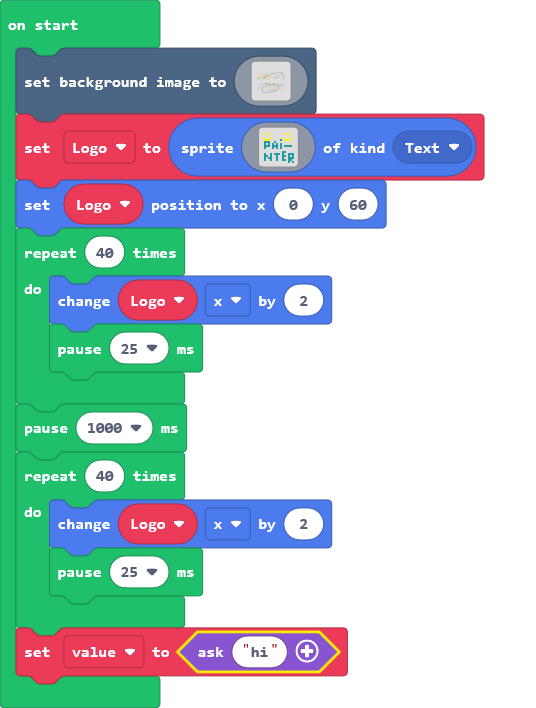
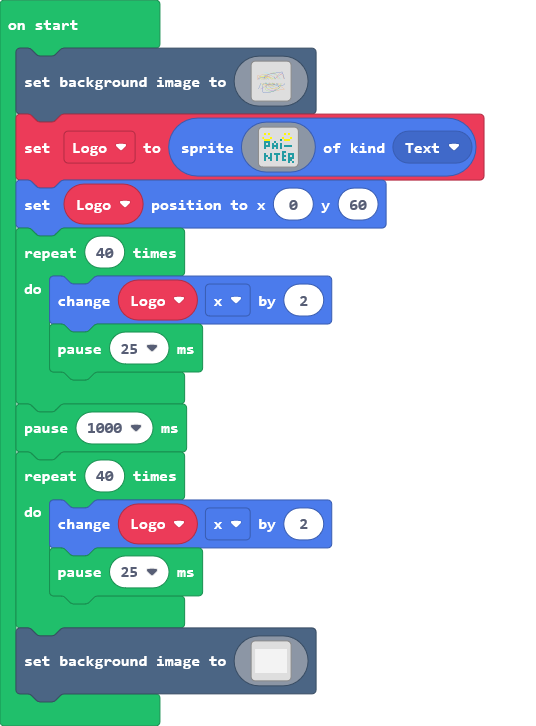
Update main.blocks, main.ts

diff --git a/main.ts b/main.ts
@@ -151,4 +151,125 @@ for (let index = 0; index < 40; index++) {
     Logo.x += 2
     pause(25)
 }
-let value = game.ask("hi")
+scene.setBackgroundImage(img`
+    1 1 1 1 1 1 1 1 1 1 1 1 1 1 1 1 1 1 1 1 1 1 1 1 1 1 1 1 1 1 1 1 1 1 1 1 1 1 1 1 1 1 1 1 1 1 1 1 1 1 1 1 1 1 1 1 1 1 1 1 1 1 1 1 1 1 1 1 1 1 1 1 1 1 1 1 1 1 1 1 1 1 1 1 1 1 1 1 1 1 1 1 1 1 1 1 1 1 1 1 1 1 1 1 1 1 1 1 1 1 1 1 1 1 1 1 1 1 1 1 1 1 1 1 1 1 1 1 1 1 1 1 1 1 1 1 1 1 1 1 1 1 1 1 1 1 1 1 1 1 1 1 1 1 1 1 1 1 1 1 
+    1 1 1 1 1 1 1 1 1 1 1 1 1 1 1 1 1 1 1 1 1 1 1 1 1 1 1 1 1 1 1 1 1 1 1 1 1 1 1 1 1 1 1 1 1 1 1 1 1 1 1 1 1 1 1 1 1 1 1 1 1 1 1 1 1 1 1 1 1 1 1 1 1 1 1 1 1 1 1 1 1 1 1 1 1 1 1 1 1 1 1 1 1 1 1 1 1 1 1 1 1 1 1 1 1 1 1 1 1 1 1 1 1 1 1 1 1 1 1 1 1 1 1 1 1 1 1 1 1 1 1 1 1 1 1 1 1 1 1 1 1 1 1 1 1 1 1 1 1 1 1 1 1 1 1 1 1 1 1 1 
+    1 1 1 1 1 1 1 1 1 1 1 1 1 1 1 1 1 1 1 1 1 1 1 1 1 1 1 1 1 1 1 1 1 1 1 1 1 1 1 1 1 1 1 1 1 1 1 1 1 1 1 1 1 1 1 1 1 1 1 1 1 1 1 1 1 1 1 1 1 1 1 1 1 1 1 1 1 1 1 1 1 1 1 1 1 1 1 1 1 1 1 1 1 1 1 1 1 1 1 1 1 1 1 1 1 1 1 1 1 1 1 1 1 1 1 1 1 1 1 1 1 1 1 1 1 1 1 1 1 1 1 1 1 1 1 1 1 1 1 1 1 1 1 1 1 1 1 1 1 1 1 1 1 1 1 1 1 1 1 1 
+    1 1 1 1 1 1 1 1 1 1 1 1 1 1 1 1 1 1 1 1 1 1 1 1 1 1 1 1 1 1 1 1 1 1 1 1 1 1 1 1 1 1 1 1 1 1 1 1 1 1 1 1 1 1 1 1 1 1 1 1 1 1 1 1 1 1 1 1 1 1 1 1 1 1 1 1 1 1 1 1 1 1 1 1 1 1 1 1 1 1 1 1 1 1 1 1 1 1 1 1 1 1 1 1 1 1 1 1 1 1 1 1 1 1 1 1 1 1 1 1 1 1 1 1 1 1 1 1 1 1 1 1 1 1 1 1 1 1 1 1 1 1 1 1 1 1 1 1 1 1 1 1 1 1 1 1 1 1 1 1 
+    1 1 1 1 1 1 1 1 1 1 1 1 1 1 1 1 1 1 1 1 1 1 1 1 1 1 1 1 1 1 1 1 1 1 1 1 1 1 1 1 1 1 1 1 1 1 1 1 1 1 1 1 1 1 1 1 1 1 1 1 1 1 1 1 1 1 1 1 1 1 1 1 1 1 1 1 1 1 1 1 1 1 1 1 1 1 1 1 1 1 1 1 1 1 1 1 1 1 1 1 1 1 1 1 1 1 1 1 1 1 1 1 1 1 1 1 1 1 1 1 1 1 1 1 1 1 1 1 1 1 1 1 1 1 1 1 1 1 1 1 1 1 1 1 1 1 1 1 1 1 1 1 1 1 1 1 1 1 1 1 
+    1 1 1 1 1 1 1 1 1 1 1 1 1 1 1 1 1 1 1 1 1 1 1 1 1 1 1 1 1 1 1 1 1 1 1 1 1 1 1 1 1 1 1 1 1 1 1 1 1 1 1 1 1 1 1 1 1 1 1 1 1 1 1 1 1 1 1 1 1 1 1 1 1 1 1 1 1 1 1 1 1 1 1 1 1 1 1 1 1 1 1 1 1 1 1 1 1 1 1 1 1 1 1 1 1 1 1 1 1 1 1 1 1 1 1 1 1 1 1 1 1 1 1 1 1 1 1 1 1 1 1 1 1 1 1 1 1 1 1 1 1 1 1 1 1 1 1 1 1 1 1 1 1 1 1 1 1 1 1 1 
+    1 1 1 1 1 1 1 1 1 1 1 1 1 1 1 1 1 1 1 1 1 1 1 1 1 1 1 1 1 1 1 1 1 1 1 1 1 1 1 1 1 1 1 1 1 1 1 1 1 1 1 1 1 1 1 1 1 1 1 1 1 1 1 1 1 1 1 1 1 1 1 1 1 1 1 1 1 1 1 1 1 1 1 1 1 1 1 1 1 1 1 1 1 1 1 1 1 1 1 1 1 1 1 1 1 1 1 1 1 1 1 1 1 1 1 1 1 1 1 1 1 1 1 1 1 1 1 1 1 1 1 1 1 1 1 1 1 1 1 1 1 1 1 1 1 1 1 1 1 1 1 1 1 1 1 1 1 1 1 1 
+    1 1 1 1 1 1 1 1 1 1 1 1 1 1 1 1 1 1 1 1 1 1 1 1 1 1 1 1 1 1 1 1 1 1 1 1 1 1 1 1 1 1 1 1 1 1 1 1 1 1 1 1 1 1 1 1 1 1 1 1 1 1 1 1 1 1 1 1 1 1 1 1 1 1 1 1 1 1 1 1 1 1 1 1 1 1 1 1 1 1 1 1 1 1 1 1 1 1 1 1 1 1 1 1 1 1 1 1 1 1 1 1 1 1 1 1 1 1 1 1 1 1 1 1 1 1 1 1 1 1 1 1 1 1 1 1 1 1 1 1 1 1 1 1 1 1 1 1 1 1 1 1 1 1 1 1 1 1 1 1 
+    1 1 1 1 1 1 1 1 1 1 1 1 1 1 1 1 1 1 1 1 1 1 1 1 1 1 1 1 1 1 1 1 1 1 1 1 1 1 1 1 1 1 1 1 1 1 1 1 1 1 1 1 1 1 1 1 1 1 1 1 1 1 1 1 1 1 1 1 1 1 1 1 1 1 1 1 1 1 1 1 1 1 1 1 1 1 1 1 1 1 1 1 1 1 1 1 1 1 1 1 1 1 1 1 1 1 1 1 1 1 1 1 1 1 1 1 1 1 1 1 1 1 1 1 1 1 1 1 1 1 1 1 1 1 1 1 1 1 1 1 1 1 1 1 1 1 1 1 1 1 1 1 1 1 1 1 1 1 1 1 
+    1 1 1 1 1 1 1 1 1 1 1 1 1 1 1 1 1 1 1 1 1 1 1 1 1 1 1 1 1 1 1 1 1 1 1 1 1 1 1 1 1 1 1 1 1 1 1 1 1 1 1 1 1 1 1 1 1 1 1 1 1 1 1 1 1 1 1 1 1 1 1 1 1 1 1 1 1 1 1 1 1 1 1 1 1 1 1 1 1 1 1 1 1 1 1 1 1 1 1 1 1 1 1 1 1 1 1 1 1 1 1 1 1 1 1 1 1 1 1 1 1 1 1 1 1 1 1 1 1 1 1 1 1 1 1 1 1 1 1 1 1 1 1 1 1 1 1 1 1 1 1 1 1 1 1 1 1 1 1 1 
+    1 1 1 1 1 1 1 1 1 1 1 1 1 1 1 1 1 1 1 1 1 1 1 1 1 1 1 1 1 1 1 1 1 1 1 1 1 1 1 1 1 1 1 1 1 1 1 1 1 1 1 1 1 1 1 1 1 1 1 1 1 1 1 1 1 1 1 1 1 1 1 1 1 1 1 1 1 1 1 1 1 1 1 1 1 1 1 1 1 1 1 1 1 1 1 1 1 1 1 1 1 1 1 1 1 1 1 1 1 1 1 1 1 1 1 1 1 1 1 1 1 1 1 1 1 1 1 1 1 1 1 1 1 1 1 1 1 1 1 1 1 1 1 1 1 1 1 1 1 1 1 1 1 1 1 1 1 1 1 1 
+    1 1 1 1 1 1 1 1 1 1 1 1 1 1 1 1 1 1 1 1 1 1 1 1 1 1 1 1 1 1 1 1 1 1 1 1 1 1 1 1 1 1 1 1 1 1 1 1 1 1 1 1 1 1 1 1 1 1 1 1 1 1 1 1 1 1 1 1 1 1 1 1 1 1 1 1 1 1 1 1 1 1 1 1 1 1 1 1 1 1 1 1 1 1 1 1 1 1 1 1 1 1 1 1 1 1 1 1 1 1 1 1 1 1 1 1 1 1 1 1 1 1 1 1 1 1 1 1 1 1 1 1 1 1 1 1 1 1 1 1 1 1 1 1 1 1 1 1 1 1 1 1 1 1 1 1 1 1 1 1 
+    1 1 1 1 1 1 1 1 1 1 1 1 1 1 1 1 1 1 1 1 1 1 1 1 1 1 1 1 1 1 1 1 1 1 1 1 1 1 1 1 1 1 1 1 1 1 1 1 1 1 1 1 1 1 1 1 1 1 1 1 1 1 1 1 1 1 1 1 1 1 1 1 1 1 1 1 1 1 1 1 1 1 1 1 1 1 1 1 1 1 1 1 1 1 1 1 1 1 1 1 1 1 1 1 1 1 1 1 1 1 1 1 1 1 1 1 1 1 1 1 1 1 1 1 1 1 1 1 1 1 1 1 1 1 1 1 1 1 1 1 1 1 1 1 1 1 1 1 1 1 1 1 1 1 1 1 1 1 1 1 
+    1 1 1 1 1 1 1 1 1 1 1 1 1 1 1 1 1 1 1 1 1 1 1 1 1 1 1 1 1 1 1 1 1 1 1 1 1 1 1 1 1 1 1 1 1 1 1 1 1 1 1 1 1 1 1 1 1 1 1 1 1 1 1 1 1 1 1 1 1 1 1 1 1 1 1 1 1 1 1 1 1 1 1 1 1 1 1 1 1 1 1 1 1 1 1 1 1 1 1 1 1 1 1 1 1 1 1 1 1 1 1 1 1 1 1 1 1 1 1 1 1 1 1 1 1 1 1 1 1 1 1 1 1 1 1 1 1 1 1 1 1 1 1 1 1 1 1 1 1 1 1 1 1 1 1 1 1 1 1 1 
+    1 1 1 1 1 1 1 1 1 1 1 1 1 1 1 1 1 1 1 1 1 1 1 1 1 1 1 1 1 1 1 1 1 1 1 1 1 1 1 1 1 1 1 1 1 1 1 1 1 1 1 1 1 1 1 1 1 1 1 1 1 1 1 1 1 1 1 1 1 1 1 1 1 1 1 1 1 1 1 1 1 1 1 1 1 1 1 1 1 1 1 1 1 1 1 1 1 1 1 1 1 1 1 1 1 1 1 1 1 1 1 1 1 1 1 1 1 1 1 1 1 1 1 1 1 1 1 1 1 1 1 1 1 1 1 1 1 1 1 1 1 1 1 1 1 1 1 1 1 1 1 1 1 1 1 1 1 1 1 1 
+    1 1 1 1 1 1 1 1 1 1 1 1 1 1 1 1 1 1 1 1 1 1 1 1 1 1 1 1 1 1 1 1 1 1 1 1 1 1 1 1 1 1 1 1 1 1 1 1 1 1 1 1 1 1 1 1 1 1 1 1 1 1 1 1 1 1 1 1 1 1 1 1 1 1 1 1 1 1 1 1 1 1 1 1 1 1 1 1 1 1 1 1 1 1 1 1 1 1 1 1 1 1 1 1 1 1 1 1 1 1 1 1 1 1 1 1 1 1 1 1 1 1 1 1 1 1 1 1 1 1 1 1 1 1 1 1 1 1 1 1 1 1 1 1 1 1 1 1 1 1 1 1 1 1 1 1 1 1 1 1 
+    1 1 1 1 1 1 1 1 1 1 1 1 1 1 1 1 1 1 1 1 1 1 1 1 1 1 1 1 1 1 1 1 1 1 1 1 1 1 1 1 1 1 1 1 1 1 1 1 1 1 1 1 1 1 1 1 1 1 1 1 1 1 1 1 1 1 1 1 1 1 1 1 1 1 1 1 1 1 1 1 1 1 1 1 1 1 1 1 1 1 1 1 1 1 1 1 1 1 1 1 1 1 1 1 1 1 1 1 1 1 1 1 1 1 1 1 1 1 1 1 1 1 1 1 1 1 1 1 1 1 1 1 1 1 1 1 1 1 1 1 1 1 1 1 1 1 1 1 1 1 1 1 1 1 1 1 1 1 1 1 
+    1 1 1 1 1 1 1 1 1 1 1 1 1 1 1 1 1 1 1 1 1 1 1 1 1 1 1 1 1 1 1 1 1 1 1 1 1 1 1 1 1 1 1 1 1 1 1 1 1 1 1 1 1 1 1 1 1 1 1 1 1 1 1 1 1 1 1 1 1 1 1 1 1 1 1 1 1 1 1 1 1 1 1 1 1 1 1 1 1 1 1 1 1 1 1 1 1 1 1 1 1 1 1 1 1 1 1 1 1 1 1 1 1 1 1 1 1 1 1 1 1 1 1 1 1 1 1 1 1 1 1 1 1 1 1 1 1 1 1 1 1 1 1 1 1 1 1 1 1 1 1 1 1 1 1 1 1 1 1 1 
+    1 1 1 1 1 1 1 1 1 1 1 1 1 1 1 1 1 1 1 1 1 1 1 1 1 1 1 1 1 1 1 1 1 1 1 1 1 1 1 1 1 1 1 1 1 1 1 1 1 1 1 1 1 1 1 1 1 1 1 1 1 1 1 1 1 1 1 1 1 1 1 1 1 1 1 1 1 1 1 1 1 1 1 1 1 1 1 1 1 1 1 1 1 1 1 1 1 1 1 1 1 1 1 1 1 1 1 1 1 1 1 1 1 1 1 1 1 1 1 1 1 1 1 1 1 1 1 1 1 1 1 1 1 1 1 1 1 1 1 1 1 1 1 1 1 1 1 1 1 1 1 1 1 1 1 1 1 1 1 1 
+    1 1 1 1 1 1 1 1 1 1 1 1 1 1 1 1 1 1 1 1 1 1 1 1 1 1 1 1 1 1 1 1 1 1 1 1 1 1 1 1 1 1 1 1 1 1 1 1 1 1 1 1 1 1 1 1 1 1 1 1 1 1 1 1 1 1 1 1 1 1 1 1 1 1 1 1 1 1 1 1 1 1 1 1 1 1 1 1 1 1 1 1 1 1 1 1 1 1 1 1 1 1 1 1 1 1 1 1 1 1 1 1 1 1 1 1 1 1 1 1 1 1 1 1 1 1 1 1 1 1 1 1 1 1 1 1 1 1 1 1 1 1 1 1 1 1 1 1 1 1 1 1 1 1 1 1 1 1 1 1 
+    1 1 1 1 1 1 1 1 1 1 1 1 1 1 1 1 1 1 1 1 1 1 1 1 1 1 1 1 1 1 1 1 1 1 1 1 1 1 1 1 1 1 1 1 1 1 1 1 1 1 1 1 1 1 1 1 1 1 1 1 1 1 1 1 1 1 1 1 1 1 1 1 1 1 1 1 1 1 1 1 1 1 1 1 1 1 1 1 1 1 1 1 1 1 1 1 1 1 1 1 1 1 1 1 1 1 1 1 1 1 1 1 1 1 1 1 1 1 1 1 1 1 1 1 1 1 1 1 1 1 1 1 1 1 1 1 1 1 1 1 1 1 1 1 1 1 1 1 1 1 1 1 1 1 1 1 1 1 1 1 
+    1 1 1 1 1 1 1 1 1 1 1 1 1 1 1 1 1 1 1 1 1 1 1 1 1 1 1 1 1 1 1 1 1 1 1 1 1 1 1 1 1 1 1 1 1 1 1 1 1 1 1 1 1 1 1 1 1 1 1 1 1 1 1 1 1 1 1 1 1 1 1 1 1 1 1 1 1 1 1 1 1 1 1 1 1 1 1 1 1 1 1 1 1 1 1 1 1 1 1 1 1 1 1 1 1 1 1 1 1 1 1 1 1 1 1 1 1 1 1 1 1 1 1 1 1 1 1 1 1 1 1 1 1 1 1 1 1 1 1 1 1 1 1 1 1 1 1 1 1 1 1 1 1 1 1 1 1 1 1 1 
+    1 1 1 1 1 1 1 1 1 1 1 1 1 1 1 1 1 1 1 1 1 1 1 1 1 1 1 1 1 1 1 1 1 1 1 1 1 1 1 1 1 1 1 1 1 1 1 1 1 1 1 1 1 1 1 1 1 1 1 1 1 1 1 1 1 1 1 1 1 1 1 1 1 1 1 1 1 1 1 1 1 1 1 1 1 1 1 1 1 1 1 1 1 1 1 1 1 1 1 1 1 1 1 1 1 1 1 1 1 1 1 1 1 1 1 1 1 1 1 1 1 1 1 1 1 1 1 1 1 1 1 1 1 1 1 1 1 1 1 1 1 1 1 1 1 1 1 1 1 1 1 1 1 1 1 1 1 1 1 1 
+    1 1 1 1 1 1 1 1 1 1 1 1 1 1 1 1 1 1 1 1 1 1 1 1 1 1 1 1 1 1 1 1 1 1 1 1 1 1 1 1 1 1 1 1 1 1 1 1 1 1 1 1 1 1 1 1 1 1 1 1 1 1 1 1 1 1 1 1 1 1 1 1 1 1 1 1 1 1 1 1 1 1 1 1 1 1 1 1 1 1 1 1 1 1 1 1 1 1 1 1 1 1 1 1 1 1 1 1 1 1 1 1 1 1 1 1 1 1 1 1 1 1 1 1 1 1 1 1 1 1 1 1 1 1 1 1 1 1 1 1 1 1 1 1 1 1 1 1 1 1 1 1 1 1 1 1 1 1 1 1 
+    1 1 1 1 1 1 1 1 1 1 1 1 1 1 1 1 1 1 1 1 1 1 1 1 1 1 1 1 1 1 1 1 1 1 1 1 1 1 1 1 1 1 1 1 1 1 1 1 1 1 1 1 1 1 1 1 1 1 1 1 1 1 1 1 1 1 1 1 1 1 1 1 1 1 1 1 1 1 1 1 1 1 1 1 1 1 1 1 1 1 1 1 1 1 1 1 1 1 1 1 1 1 1 1 1 1 1 1 1 1 1 1 1 1 1 1 1 1 1 1 1 1 1 1 1 1 1 1 1 1 1 1 1 1 1 1 1 1 1 1 1 1 1 1 1 1 1 1 1 1 1 1 1 1 1 1 1 1 1 1 
+    1 1 1 1 1 1 1 1 1 1 1 1 1 1 1 1 1 1 1 1 1 1 1 1 1 1 1 1 1 1 1 1 1 1 1 1 1 1 1 1 1 1 1 1 1 1 1 1 1 1 1 1 1 1 1 1 1 1 1 1 1 1 1 1 1 1 1 1 1 1 1 1 1 1 1 1 1 1 1 1 1 1 1 1 1 1 1 1 1 1 1 1 1 1 1 1 1 1 1 1 1 1 1 1 1 1 1 1 1 1 1 1 1 1 1 1 1 1 1 1 1 1 1 1 1 1 1 1 1 1 1 1 1 1 1 1 1 1 1 1 1 1 1 1 1 1 1 1 1 1 1 1 1 1 1 1 1 1 1 1 
+    1 1 1 1 1 1 1 1 1 1 1 1 1 1 1 1 1 1 1 1 1 1 1 1 1 1 1 1 1 1 1 1 1 1 1 1 1 1 1 1 1 1 1 1 1 1 1 1 1 1 1 1 1 1 1 1 1 1 1 1 1 1 1 1 1 1 1 1 1 1 1 1 1 1 1 1 1 1 1 1 1 1 1 1 1 1 1 1 1 1 1 1 1 1 1 1 1 1 1 1 1 1 1 1 1 1 1 1 1 1 1 1 1 1 1 1 1 1 1 1 1 1 1 1 1 1 1 1 1 1 1 1 1 1 1 1 1 1 1 1 1 1 1 1 1 1 1 1 1 1 1 1 1 1 1 1 1 1 1 1 
+    1 1 1 1 1 1 1 1 1 1 1 1 1 1 1 1 1 1 1 1 1 1 1 1 1 1 1 1 1 1 1 1 1 1 1 1 1 1 1 1 1 1 1 1 1 1 1 1 1 1 1 1 1 1 1 1 1 1 1 1 1 1 1 1 1 1 1 1 1 1 1 1 1 1 1 1 1 1 1 1 1 1 1 1 1 1 1 1 1 1 1 1 1 1 1 1 1 1 1 1 1 1 1 1 1 1 1 1 1 1 1 1 1 1 1 1 1 1 1 1 1 1 1 1 1 1 1 1 1 1 1 1 1 1 1 1 1 1 1 1 1 1 1 1 1 1 1 1 1 1 1 1 1 1 1 1 1 1 1 1 
+    1 1 1 1 1 1 1 1 1 1 1 1 1 1 1 1 1 1 1 1 1 1 1 1 1 1 1 1 1 1 1 1 1 1 1 1 1 1 1 1 1 1 1 1 1 1 1 1 1 1 1 1 1 1 1 1 1 1 1 1 1 1 1 1 1 1 1 1 1 1 1 1 1 1 1 1 1 1 1 1 1 1 1 1 1 1 1 1 1 1 1 1 1 1 1 1 1 1 1 1 1 1 1 1 1 1 1 1 1 1 1 1 1 1 1 1 1 1 1 1 1 1 1 1 1 1 1 1 1 1 1 1 1 1 1 1 1 1 1 1 1 1 1 1 1 1 1 1 1 1 1 1 1 1 1 1 1 1 1 1 
+    1 1 1 1 1 1 1 1 1 1 1 1 1 1 1 1 1 1 1 1 1 1 1 1 1 1 1 1 1 1 1 1 1 1 1 1 1 1 1 1 1 1 1 1 1 1 1 1 1 1 1 1 1 1 1 1 1 1 1 1 1 1 1 1 1 1 1 1 1 1 1 1 1 1 1 1 1 1 1 1 1 1 1 1 1 1 1 1 1 1 1 1 1 1 1 1 1 1 1 1 1 1 1 1 1 1 1 1 1 1 1 1 1 1 1 1 1 1 1 1 1 1 1 1 1 1 1 1 1 1 1 1 1 1 1 1 1 1 1 1 1 1 1 1 1 1 1 1 1 1 1 1 1 1 1 1 1 1 1 1 
+    1 1 1 1 1 1 1 1 1 1 1 1 1 1 1 1 1 1 1 1 1 1 1 1 1 1 1 1 1 1 1 1 1 1 1 1 1 1 1 1 1 1 1 1 1 1 1 1 1 1 1 1 1 1 1 1 1 1 1 1 1 1 1 1 1 1 1 1 1 1 1 1 1 1 1 1 1 1 1 1 1 1 1 1 1 1 1 1 1 1 1 1 1 1 1 1 1 1 1 1 1 1 1 1 1 1 1 1 1 1 1 1 1 1 1 1 1 1 1 1 1 1 1 1 1 1 1 1 1 1 1 1 1 1 1 1 1 1 1 1 1 1 1 1 1 1 1 1 1 1 1 1 1 1 1 1 1 1 1 1 
+    1 1 1 1 1 1 1 1 1 1 1 1 1 1 1 1 1 1 1 1 1 1 1 1 1 1 1 1 1 1 1 1 1 1 1 1 1 1 1 1 1 1 1 1 1 1 1 1 1 1 1 1 1 1 1 1 1 1 1 1 1 1 1 1 1 1 1 1 1 1 1 1 1 1 1 1 1 1 1 1 1 1 1 1 1 1 1 1 1 1 1 1 1 1 1 1 1 1 1 1 1 1 1 1 1 1 1 1 1 1 1 1 1 1 1 1 1 1 1 1 1 1 1 1 1 1 1 1 1 1 1 1 1 1 1 1 1 1 1 1 1 1 1 1 1 1 1 1 1 1 1 1 1 1 1 1 1 1 1 1 
+    1 1 1 1 1 1 1 1 1 1 1 1 1 1 1 1 1 1 1 1 1 1 1 1 1 1 1 1 1 1 1 1 1 1 1 1 1 1 1 1 1 1 1 1 1 1 1 1 1 1 1 1 1 1 1 1 1 1 1 1 1 1 1 1 1 1 1 1 1 1 1 1 1 1 1 1 1 1 1 1 1 1 1 1 1 1 1 1 1 1 1 1 1 1 1 1 1 1 1 1 1 1 1 1 1 1 1 1 1 1 1 1 1 1 1 1 1 1 1 1 1 1 1 1 1 1 1 1 1 1 1 1 1 1 1 1 1 1 1 1 1 1 1 1 1 1 1 1 1 1 1 1 1 1 1 1 1 1 1 1 
+    1 1 1 1 1 1 1 1 1 1 1 1 1 1 1 1 1 1 1 1 1 1 1 1 1 1 1 1 1 1 1 1 1 1 1 1 1 1 1 1 1 1 1 1 1 1 1 1 1 1 1 1 1 1 1 1 1 1 1 1 1 1 1 1 1 1 1 1 1 1 1 1 1 1 1 1 1 1 1 1 1 1 1 1 1 1 1 1 1 1 1 1 1 1 1 1 1 1 1 1 1 1 1 1 1 1 1 1 1 1 1 1 1 1 1 1 1 1 1 1 1 1 1 1 1 1 1 1 1 1 1 1 1 1 1 1 1 1 1 1 1 1 1 1 1 1 1 1 1 1 1 1 1 1 1 1 1 1 1 1 
+    1 1 1 1 1 1 1 1 1 1 1 1 1 1 1 1 1 1 1 1 1 1 1 1 1 1 1 1 1 1 1 1 1 1 1 1 1 1 1 1 1 1 1 1 1 1 1 1 1 1 1 1 1 1 1 1 1 1 1 1 1 1 1 1 1 1 1 1 1 1 1 1 1 1 1 1 1 1 1 1 1 1 1 1 1 1 1 1 1 1 1 1 1 1 1 1 1 1 1 1 1 1 1 1 1 1 1 1 1 1 1 1 1 1 1 1 1 1 1 1 1 1 1 1 1 1 1 1 1 1 1 1 1 1 1 1 1 1 1 1 1 1 1 1 1 1 1 1 1 1 1 1 1 1 1 1 1 1 1 1 
+    1 1 1 1 1 1 1 1 1 1 1 1 1 1 1 1 1 1 1 1 1 1 1 1 1 1 1 1 1 1 1 1 1 1 1 1 1 1 1 1 1 1 1 1 1 1 1 1 1 1 1 1 1 1 1 1 1 1 1 1 1 1 1 1 1 1 1 1 1 1 1 1 1 1 1 1 1 1 1 1 1 1 1 1 1 1 1 1 1 1 1 1 1 1 1 1 1 1 1 1 1 1 1 1 1 1 1 1 1 1 1 1 1 1 1 1 1 1 1 1 1 1 1 1 1 1 1 1 1 1 1 1 1 1 1 1 1 1 1 1 1 1 1 1 1 1 1 1 1 1 1 1 1 1 1 1 1 1 1 1 
+    1 1 1 1 1 1 1 1 1 1 1 1 1 1 1 1 1 1 1 1 1 1 1 1 1 1 1 1 1 1 1 1 1 1 1 1 1 1 1 1 1 1 1 1 1 1 1 1 1 1 1 1 1 1 1 1 1 1 1 1 1 1 1 1 1 1 1 1 1 1 1 1 1 1 1 1 1 1 1 1 1 1 1 1 1 1 1 1 1 1 1 1 1 1 1 1 1 1 1 1 1 1 1 1 1 1 1 1 1 1 1 1 1 1 1 1 1 1 1 1 1 1 1 1 1 1 1 1 1 1 1 1 1 1 1 1 1 1 1 1 1 1 1 1 1 1 1 1 1 1 1 1 1 1 1 1 1 1 1 1 
+    1 1 1 1 1 1 1 1 1 1 1 1 1 1 1 1 1 1 1 1 1 1 1 1 1 1 1 1 1 1 1 1 1 1 1 1 1 1 1 1 1 1 1 1 1 1 1 1 1 1 1 1 1 1 1 1 1 1 1 1 1 1 1 1 1 1 1 1 1 1 1 1 1 1 1 1 1 1 1 1 1 1 1 1 1 1 1 1 1 1 1 1 1 1 1 1 1 1 1 1 1 1 1 1 1 1 1 1 1 1 1 1 1 1 1 1 1 1 1 1 1 1 1 1 1 1 1 1 1 1 1 1 1 1 1 1 1 1 1 1 1 1 1 1 1 1 1 1 1 1 1 1 1 1 1 1 1 1 1 1 
+    1 1 1 1 1 1 1 1 1 1 1 1 1 1 1 1 1 1 1 1 1 1 1 1 1 1 1 1 1 1 1 1 1 1 1 1 1 1 1 1 1 1 1 1 1 1 1 1 1 1 1 1 1 1 1 1 1 1 1 1 1 1 1 1 1 1 1 1 1 1 1 1 1 1 1 1 1 1 1 1 1 1 1 1 1 1 1 1 1 1 1 1 1 1 1 1 1 1 1 1 1 1 1 1 1 1 1 1 1 1 1 1 1 1 1 1 1 1 1 1 1 1 1 1 1 1 1 1 1 1 1 1 1 1 1 1 1 1 1 1 1 1 1 1 1 1 1 1 1 1 1 1 1 1 1 1 1 1 1 1 
+    1 1 1 1 1 1 1 1 1 1 1 1 1 1 1 1 1 1 1 1 1 1 1 1 1 1 1 1 1 1 1 1 1 1 1 1 1 1 1 1 1 1 1 1 1 1 1 1 1 1 1 1 1 1 1 1 1 1 1 1 1 1 1 1 1 1 1 1 1 1 1 1 1 1 1 1 1 1 1 1 1 1 1 1 1 1 1 1 1 1 1 1 1 1 1 1 1 1 1 1 1 1 1 1 1 1 1 1 1 1 1 1 1 1 1 1 1 1 1 1 1 1 1 1 1 1 1 1 1 1 1 1 1 1 1 1 1 1 1 1 1 1 1 1 1 1 1 1 1 1 1 1 1 1 1 1 1 1 1 1 
+    1 1 1 1 1 1 1 1 1 1 1 1 1 1 1 1 1 1 1 1 1 1 1 1 1 1 1 1 1 1 1 1 1 1 1 1 1 1 1 1 1 1 1 1 1 1 1 1 1 1 1 1 1 1 1 1 1 1 1 1 1 1 1 1 1 1 1 1 1 1 1 1 1 1 1 1 1 1 1 1 1 1 1 1 1 1 1 1 1 1 1 1 1 1 1 1 1 1 1 1 1 1 1 1 1 1 1 1 1 1 1 1 1 1 1 1 1 1 1 1 1 1 1 1 1 1 1 1 1 1 1 1 1 1 1 1 1 1 1 1 1 1 1 1 1 1 1 1 1 1 1 1 1 1 1 1 1 1 1 1 
+    1 1 1 1 1 1 1 1 1 1 1 1 1 1 1 1 1 1 1 1 1 1 1 1 1 1 1 1 1 1 1 1 1 1 1 1 1 1 1 1 1 1 1 1 1 1 1 1 1 1 1 1 1 1 1 1 1 1 1 1 1 1 1 1 1 1 1 1 1 1 1 1 1 1 1 1 1 1 1 1 1 1 1 1 1 1 1 1 1 1 1 1 1 1 1 1 1 1 1 1 1 1 1 1 1 1 1 1 1 1 1 1 1 1 1 1 1 1 1 1 1 1 1 1 1 1 1 1 1 1 1 1 1 1 1 1 1 1 1 1 1 1 1 1 1 1 1 1 1 1 1 1 1 1 1 1 1 1 1 1 
+    1 1 1 1 1 1 1 1 1 1 1 1 1 1 1 1 1 1 1 1 1 1 1 1 1 1 1 1 1 1 1 1 1 1 1 1 1 1 1 1 1 1 1 1 1 1 1 1 1 1 1 1 1 1 1 1 1 1 1 1 1 1 1 1 1 1 1 1 1 1 1 1 1 1 1 1 1 1 1 1 1 1 1 1 1 1 1 1 1 1 1 1 1 1 1 1 1 1 1 1 1 1 1 1 1 1 1 1 1 1 1 1 1 1 1 1 1 1 1 1 1 1 1 1 1 1 1 1 1 1 1 1 1 1 1 1 1 1 1 1 1 1 1 1 1 1 1 1 1 1 1 1 1 1 1 1 1 1 1 1 
+    1 1 1 1 1 1 1 1 1 1 1 1 1 1 1 1 1 1 1 1 1 1 1 1 1 1 1 1 1 1 1 1 1 1 1 1 1 1 1 1 1 1 1 1 1 1 1 1 1 1 1 1 1 1 1 1 1 1 1 1 1 1 1 1 1 1 1 1 1 1 1 1 1 1 1 1 1 1 1 1 1 1 1 1 1 1 1 1 1 1 1 1 1 1 1 1 1 1 1 1 1 1 1 1 1 1 1 1 1 1 1 1 1 1 1 1 1 1 1 1 1 1 1 1 1 1 1 1 1 1 1 1 1 1 1 1 1 1 1 1 1 1 1 1 1 1 1 1 1 1 1 1 1 1 1 1 1 1 1 1 
+    1 1 1 1 1 1 1 1 1 1 1 1 1 1 1 1 1 1 1 1 1 1 1 1 1 1 1 1 1 1 1 1 1 1 1 1 1 1 1 1 1 1 1 1 1 1 1 1 1 1 1 1 1 1 1 1 1 1 1 1 1 1 1 1 1 1 1 1 1 1 1 1 1 1 1 1 1 1 1 1 1 1 1 1 1 1 1 1 1 1 1 1 1 1 1 1 1 1 1 1 1 1 1 1 1 1 1 1 1 1 1 1 1 1 1 1 1 1 1 1 1 1 1 1 1 1 1 1 1 1 1 1 1 1 1 1 1 1 1 1 1 1 1 1 1 1 1 1 1 1 1 1 1 1 1 1 1 1 1 1 
+    1 1 1 1 1 1 1 1 1 1 1 1 1 1 1 1 1 1 1 1 1 1 1 1 1 1 1 1 1 1 1 1 1 1 1 1 1 1 1 1 1 1 1 1 1 1 1 1 1 1 1 1 1 1 1 1 1 1 1 1 1 1 1 1 1 1 1 1 1 1 1 1 1 1 1 1 1 1 1 1 1 1 1 1 1 1 1 1 1 1 1 1 1 1 1 1 1 1 1 1 1 1 1 1 1 1 1 1 1 1 1 1 1 1 1 1 1 1 1 1 1 1 1 1 1 1 1 1 1 1 1 1 1 1 1 1 1 1 1 1 1 1 1 1 1 1 1 1 1 1 1 1 1 1 1 1 1 1 1 1 
+    1 1 1 1 1 1 1 1 1 1 1 1 1 1 1 1 1 1 1 1 1 1 1 1 1 1 1 1 1 1 1 1 1 1 1 1 1 1 1 1 1 1 1 1 1 1 1 1 1 1 1 1 1 1 1 1 1 1 1 1 1 1 1 1 1 1 1 1 1 1 1 1 1 1 1 1 1 1 1 1 1 1 1 1 1 1 1 1 1 1 1 1 1 1 1 1 1 1 1 1 1 1 1 1 1 1 1 1 1 1 1 1 1 1 1 1 1 1 1 1 1 1 1 1 1 1 1 1 1 1 1 1 1 1 1 1 1 1 1 1 1 1 1 1 1 1 1 1 1 1 1 1 1 1 1 1 1 1 1 1 
+    1 1 1 1 1 1 1 1 1 1 1 1 1 1 1 1 1 1 1 1 1 1 1 1 1 1 1 1 1 1 1 1 1 1 1 1 1 1 1 1 1 1 1 1 1 1 1 1 1 1 1 1 1 1 1 1 1 1 1 1 1 1 1 1 1 1 1 1 1 1 1 1 1 1 1 1 1 1 1 1 1 1 1 1 1 1 1 1 1 1 1 1 1 1 1 1 1 1 1 1 1 1 1 1 1 1 1 1 1 1 1 1 1 1 1 1 1 1 1 1 1 1 1 1 1 1 1 1 1 1 1 1 1 1 1 1 1 1 1 1 1 1 1 1 1 1 1 1 1 1 1 1 1 1 1 1 1 1 1 1 
+    1 1 1 1 1 1 1 1 1 1 1 1 1 1 1 1 1 1 1 1 1 1 1 1 1 1 1 1 1 1 1 1 1 1 1 1 1 1 1 1 1 1 1 1 1 1 1 1 1 1 1 1 1 1 1 1 1 1 1 1 1 1 1 1 1 1 1 1 1 1 1 1 1 1 1 1 1 1 1 1 1 1 1 1 1 1 1 1 1 1 1 1 1 1 1 1 1 1 1 1 1 1 1 1 1 1 1 1 1 1 1 1 1 1 1 1 1 1 1 1 1 1 1 1 1 1 1 1 1 1 1 1 1 1 1 1 1 1 1 1 1 1 1 1 1 1 1 1 1 1 1 1 1 1 1 1 1 1 1 1 
+    1 1 1 1 1 1 1 1 1 1 1 1 1 1 1 1 1 1 1 1 1 1 1 1 1 1 1 1 1 1 1 1 1 1 1 1 1 1 1 1 1 1 1 1 1 1 1 1 1 1 1 1 1 1 1 1 1 1 1 1 1 1 1 1 1 1 1 1 1 1 1 1 1 1 1 1 1 1 1 1 1 1 1 1 1 1 1 1 1 1 1 1 1 1 1 1 1 1 1 1 1 1 1 1 1 1 1 1 1 1 1 1 1 1 1 1 1 1 1 1 1 1 1 1 1 1 1 1 1 1 1 1 1 1 1 1 1 1 1 1 1 1 1 1 1 1 1 1 1 1 1 1 1 1 1 1 1 1 1 1 
+    1 1 1 1 1 1 1 1 1 1 1 1 1 1 1 1 1 1 1 1 1 1 1 1 1 1 1 1 1 1 1 1 1 1 1 1 1 1 1 1 1 1 1 1 1 1 1 1 1 1 1 1 1 1 1 1 1 1 1 1 1 1 1 1 1 1 1 1 1 1 1 1 1 1 1 1 1 1 1 1 1 1 1 1 1 1 1 1 1 1 1 1 1 1 1 1 1 1 1 1 1 1 1 1 1 1 1 1 1 1 1 1 1 1 1 1 1 1 1 1 1 1 1 1 1 1 1 1 1 1 1 1 1 1 1 1 1 1 1 1 1 1 1 1 1 1 1 1 1 1 1 1 1 1 1 1 1 1 1 1 
+    1 1 1 1 1 1 1 1 1 1 1 1 1 1 1 1 1 1 1 1 1 1 1 1 1 1 1 1 1 1 1 1 1 1 1 1 1 1 1 1 1 1 1 1 1 1 1 1 1 1 1 1 1 1 1 1 1 1 1 1 1 1 1 1 1 1 1 1 1 1 1 1 1 1 1 1 1 1 1 1 1 1 1 1 1 1 1 1 1 1 1 1 1 1 1 1 1 1 1 1 1 1 1 1 1 1 1 1 1 1 1 1 1 1 1 1 1 1 1 1 1 1 1 1 1 1 1 1 1 1 1 1 1 1 1 1 1 1 1 1 1 1 1 1 1 1 1 1 1 1 1 1 1 1 1 1 1 1 1 1 
+    1 1 1 1 1 1 1 1 1 1 1 1 1 1 1 1 1 1 1 1 1 1 1 1 1 1 1 1 1 1 1 1 1 1 1 1 1 1 1 1 1 1 1 1 1 1 1 1 1 1 1 1 1 1 1 1 1 1 1 1 1 1 1 1 1 1 1 1 1 1 1 1 1 1 1 1 1 1 1 1 1 1 1 1 1 1 1 1 1 1 1 1 1 1 1 1 1 1 1 1 1 1 1 1 1 1 1 1 1 1 1 1 1 1 1 1 1 1 1 1 1 1 1 1 1 1 1 1 1 1 1 1 1 1 1 1 1 1 1 1 1 1 1 1 1 1 1 1 1 1 1 1 1 1 1 1 1 1 1 1 
+    1 1 1 1 1 1 1 1 1 1 1 1 1 1 1 1 1 1 1 1 1 1 1 1 1 1 1 1 1 1 1 1 1 1 1 1 1 1 1 1 1 1 1 1 1 1 1 1 1 1 1 1 1 1 1 1 1 1 1 1 1 1 1 1 1 1 1 1 1 1 1 1 1 1 1 1 1 1 1 1 1 1 1 1 1 1 1 1 1 1 1 1 1 1 1 1 1 1 1 1 1 1 1 1 1 1 1 1 1 1 1 1 1 1 1 1 1 1 1 1 1 1 1 1 1 1 1 1 1 1 1 1 1 1 1 1 1 1 1 1 1 1 1 1 1 1 1 1 1 1 1 1 1 1 1 1 1 1 1 1 
+    1 1 1 1 1 1 1 1 1 1 1 1 1 1 1 1 1 1 1 1 1 1 1 1 1 1 1 1 1 1 1 1 1 1 1 1 1 1 1 1 1 1 1 1 1 1 1 1 1 1 1 1 1 1 1 1 1 1 1 1 1 1 1 1 1 1 1 1 1 1 1 1 1 1 1 1 1 1 1 1 1 1 1 1 1 1 1 1 1 1 1 1 1 1 1 1 1 1 1 1 1 1 1 1 1 1 1 1 1 1 1 1 1 1 1 1 1 1 1 1 1 1 1 1 1 1 1 1 1 1 1 1 1 1 1 1 1 1 1 1 1 1 1 1 1 1 1 1 1 1 1 1 1 1 1 1 1 1 1 1 
+    1 1 1 1 1 1 1 1 1 1 1 1 1 1 1 1 1 1 1 1 1 1 1 1 1 1 1 1 1 1 1 1 1 1 1 1 1 1 1 1 1 1 1 1 1 1 1 1 1 1 1 1 1 1 1 1 1 1 1 1 1 1 1 1 1 1 1 1 1 1 1 1 1 1 1 1 1 1 1 1 1 1 1 1 1 1 1 1 1 1 1 1 1 1 1 1 1 1 1 1 1 1 1 1 1 1 1 1 1 1 1 1 1 1 1 1 1 1 1 1 1 1 1 1 1 1 1 1 1 1 1 1 1 1 1 1 1 1 1 1 1 1 1 1 1 1 1 1 1 1 1 1 1 1 1 1 1 1 1 1 
+    1 1 1 1 1 1 1 1 1 1 1 1 1 1 1 1 1 1 1 1 1 1 1 1 1 1 1 1 1 1 1 1 1 1 1 1 1 1 1 1 1 1 1 1 1 1 1 1 1 1 1 1 1 1 1 1 1 1 1 1 1 1 1 1 1 1 1 1 1 1 1 1 1 1 1 1 1 1 1 1 1 1 1 1 1 1 1 1 1 1 1 1 1 1 1 1 1 1 1 1 1 1 1 1 1 1 1 1 1 1 1 1 1 1 1 1 1 1 1 1 1 1 1 1 1 1 1 1 1 1 1 1 1 1 1 1 1 1 1 1 1 1 1 1 1 1 1 1 1 1 1 1 1 1 1 1 1 1 1 1 
+    1 1 1 1 1 1 1 1 1 1 1 1 1 1 1 1 1 1 1 1 1 1 1 1 1 1 1 1 1 1 1 1 1 1 1 1 1 1 1 1 1 1 1 1 1 1 1 1 1 1 1 1 1 1 1 1 1 1 1 1 1 1 1 1 1 1 1 1 1 1 1 1 1 1 1 1 1 1 1 1 1 1 1 1 1 1 1 1 1 1 1 1 1 1 1 1 1 1 1 1 1 1 1 1 1 1 1 1 1 1 1 1 1 1 1 1 1 1 1 1 1 1 1 1 1 1 1 1 1 1 1 1 1 1 1 1 1 1 1 1 1 1 1 1 1 1 1 1 1 1 1 1 1 1 1 1 1 1 1 1 
+    1 1 1 1 1 1 1 1 1 1 1 1 1 1 1 1 1 1 1 1 1 1 1 1 1 1 1 1 1 1 1 1 1 1 1 1 1 1 1 1 1 1 1 1 1 1 1 1 1 1 1 1 1 1 1 1 1 1 1 1 1 1 1 1 1 1 1 1 1 1 1 1 1 1 1 1 1 1 1 1 1 1 1 1 1 1 1 1 1 1 1 1 1 1 1 1 1 1 1 1 1 1 1 1 1 1 1 1 1 1 1 1 1 1 1 1 1 1 1 1 1 1 1 1 1 1 1 1 1 1 1 1 1 1 1 1 1 1 1 1 1 1 1 1 1 1 1 1 1 1 1 1 1 1 1 1 1 1 1 1 
+    1 1 1 1 1 1 1 1 1 1 1 1 1 1 1 1 1 1 1 1 1 1 1 1 1 1 1 1 1 1 1 1 1 1 1 1 1 1 1 1 1 1 1 1 1 1 1 1 1 1 1 1 1 1 1 1 1 1 1 1 1 1 1 1 1 1 1 1 1 1 1 1 1 1 1 1 1 1 1 1 1 1 1 1 1 1 1 1 1 1 1 1 1 1 1 1 1 1 1 1 1 1 1 1 1 1 1 1 1 1 1 1 1 1 1 1 1 1 1 1 1 1 1 1 1 1 1 1 1 1 1 1 1 1 1 1 1 1 1 1 1 1 1 1 1 1 1 1 1 1 1 1 1 1 1 1 1 1 1 1 
+    1 1 1 1 1 1 1 1 1 1 1 1 1 1 1 1 1 1 1 1 1 1 1 1 1 1 1 1 1 1 1 1 1 1 1 1 1 1 1 1 1 1 1 1 1 1 1 1 1 1 1 1 1 1 1 1 1 1 1 1 1 1 1 1 1 1 1 1 1 1 1 1 1 1 1 1 1 1 1 1 1 1 1 1 1 1 1 1 1 1 1 1 1 1 1 1 1 1 1 1 1 1 1 1 1 1 1 1 1 1 1 1 1 1 1 1 1 1 1 1 1 1 1 1 1 1 1 1 1 1 1 1 1 1 1 1 1 1 1 1 1 1 1 1 1 1 1 1 1 1 1 1 1 1 1 1 1 1 1 1 
+    1 1 1 1 1 1 1 1 1 1 1 1 1 1 1 1 1 1 1 1 1 1 1 1 1 1 1 1 1 1 1 1 1 1 1 1 1 1 1 1 1 1 1 1 1 1 1 1 1 1 1 1 1 1 1 1 1 1 1 1 1 1 1 1 1 1 1 1 1 1 1 1 1 1 1 1 1 1 1 1 1 1 1 1 1 1 1 1 1 1 1 1 1 1 1 1 1 1 1 1 1 1 1 1 1 1 1 1 1 1 1 1 1 1 1 1 1 1 1 1 1 1 1 1 1 1 1 1 1 1 1 1 1 1 1 1 1 1 1 1 1 1 1 1 1 1 1 1 1 1 1 1 1 1 1 1 1 1 1 1 
+    1 1 1 1 1 1 1 1 1 1 1 1 1 1 1 1 1 1 1 1 1 1 1 1 1 1 1 1 1 1 1 1 1 1 1 1 1 1 1 1 1 1 1 1 1 1 1 1 1 1 1 1 1 1 1 1 1 1 1 1 1 1 1 1 1 1 1 1 1 1 1 1 1 1 1 1 1 1 1 1 1 1 1 1 1 1 1 1 1 1 1 1 1 1 1 1 1 1 1 1 1 1 1 1 1 1 1 1 1 1 1 1 1 1 1 1 1 1 1 1 1 1 1 1 1 1 1 1 1 1 1 1 1 1 1 1 1 1 1 1 1 1 1 1 1 1 1 1 1 1 1 1 1 1 1 1 1 1 1 1 
+    1 1 1 1 1 1 1 1 1 1 1 1 1 1 1 1 1 1 1 1 1 1 1 1 1 1 1 1 1 1 1 1 1 1 1 1 1 1 1 1 1 1 1 1 1 1 1 1 1 1 1 1 1 1 1 1 1 1 1 1 1 1 1 1 1 1 1 1 1 1 1 1 1 1 1 1 1 1 1 1 1 1 1 1 1 1 1 1 1 1 1 1 1 1 1 1 1 1 1 1 1 1 1 1 1 1 1 1 1 1 1 1 1 1 1 1 1 1 1 1 1 1 1 1 1 1 1 1 1 1 1 1 1 1 1 1 1 1 1 1 1 1 1 1 1 1 1 1 1 1 1 1 1 1 1 1 1 1 1 1 
+    1 1 1 1 1 1 1 1 1 1 1 1 1 1 1 1 1 1 1 1 1 1 1 1 1 1 1 1 1 1 1 1 1 1 1 1 1 1 1 1 1 1 1 1 1 1 1 1 1 1 1 1 1 1 1 1 1 1 1 1 1 1 1 1 1 1 1 1 1 1 1 1 1 1 1 1 1 1 1 1 1 1 1 1 1 1 1 1 1 1 1 1 1 1 1 1 1 1 1 1 1 1 1 1 1 1 1 1 1 1 1 1 1 1 1 1 1 1 1 1 1 1 1 1 1 1 1 1 1 1 1 1 1 1 1 1 1 1 1 1 1 1 1 1 1 1 1 1 1 1 1 1 1 1 1 1 1 1 1 1 
+    1 1 1 1 1 1 1 1 1 1 1 1 1 1 1 1 1 1 1 1 1 1 1 1 1 1 1 1 1 1 1 1 1 1 1 1 1 1 1 1 1 1 1 1 1 1 1 1 1 1 1 1 1 1 1 1 1 1 1 1 1 1 1 1 1 1 1 1 1 1 1 1 1 1 1 1 1 1 1 1 1 1 1 1 1 1 1 1 1 1 1 1 1 1 1 1 1 1 1 1 1 1 1 1 1 1 1 1 1 1 1 1 1 1 1 1 1 1 1 1 1 1 1 1 1 1 1 1 1 1 1 1 1 1 1 1 1 1 1 1 1 1 1 1 1 1 1 1 1 1 1 1 1 1 1 1 1 1 1 1 
+    1 1 1 1 1 1 1 1 1 1 1 1 1 1 1 1 1 1 1 1 1 1 1 1 1 1 1 1 1 1 1 1 1 1 1 1 1 1 1 1 1 1 1 1 1 1 1 1 1 1 1 1 1 1 1 1 1 1 1 1 1 1 1 1 1 1 1 1 1 1 1 1 1 1 1 1 1 1 1 1 1 1 1 1 1 1 1 1 1 1 1 1 1 1 1 1 1 1 1 1 1 1 1 1 1 1 1 1 1 1 1 1 1 1 1 1 1 1 1 1 1 1 1 1 1 1 1 1 1 1 1 1 1 1 1 1 1 1 1 1 1 1 1 1 1 1 1 1 1 1 1 1 1 1 1 1 1 1 1 1 
+    1 1 1 1 1 1 1 1 1 1 1 1 1 1 1 1 1 1 1 1 1 1 1 1 1 1 1 1 1 1 1 1 1 1 1 1 1 1 1 1 1 1 1 1 1 1 1 1 1 1 1 1 1 1 1 1 1 1 1 1 1 1 1 1 1 1 1 1 1 1 1 1 1 1 1 1 1 1 1 1 1 1 1 1 1 1 1 1 1 1 1 1 1 1 1 1 1 1 1 1 1 1 1 1 1 1 1 1 1 1 1 1 1 1 1 1 1 1 1 1 1 1 1 1 1 1 1 1 1 1 1 1 1 1 1 1 1 1 1 1 1 1 1 1 1 1 1 1 1 1 1 1 1 1 1 1 1 1 1 1 
+    1 1 1 1 1 1 1 1 1 1 1 1 1 1 1 1 1 1 1 1 1 1 1 1 1 1 1 1 1 1 1 1 1 1 1 1 1 1 1 1 1 1 1 1 1 1 1 1 1 1 1 1 1 1 1 1 1 1 1 1 1 1 1 1 1 1 1 1 1 1 1 1 1 1 1 1 1 1 1 1 1 1 1 1 1 1 1 1 1 1 1 1 1 1 1 1 1 1 1 1 1 1 1 1 1 1 1 1 1 1 1 1 1 1 1 1 1 1 1 1 1 1 1 1 1 1 1 1 1 1 1 1 1 1 1 1 1 1 1 1 1 1 1 1 1 1 1 1 1 1 1 1 1 1 1 1 1 1 1 1 
+    1 1 1 1 1 1 1 1 1 1 1 1 1 1 1 1 1 1 1 1 1 1 1 1 1 1 1 1 1 1 1 1 1 1 1 1 1 1 1 1 1 1 1 1 1 1 1 1 1 1 1 1 1 1 1 1 1 1 1 1 1 1 1 1 1 1 1 1 1 1 1 1 1 1 1 1 1 1 1 1 1 1 1 1 1 1 1 1 1 1 1 1 1 1 1 1 1 1 1 1 1 1 1 1 1 1 1 1 1 1 1 1 1 1 1 1 1 1 1 1 1 1 1 1 1 1 1 1 1 1 1 1 1 1 1 1 1 1 1 1 1 1 1 1 1 1 1 1 1 1 1 1 1 1 1 1 1 1 1 1 
+    1 1 1 1 1 1 1 1 1 1 1 1 1 1 1 1 1 1 1 1 1 1 1 1 1 1 1 1 1 1 1 1 1 1 1 1 1 1 1 1 1 1 1 1 1 1 1 1 1 1 1 1 1 1 1 1 1 1 1 1 1 1 1 1 1 1 1 1 1 1 1 1 1 1 1 1 1 1 1 1 1 1 1 1 1 1 1 1 1 1 1 1 1 1 1 1 1 1 1 1 1 1 1 1 1 1 1 1 1 1 1 1 1 1 1 1 1 1 1 1 1 1 1 1 1 1 1 1 1 1 1 1 1 1 1 1 1 1 1 1 1 1 1 1 1 1 1 1 1 1 1 1 1 1 1 1 1 1 1 1 
+    1 1 1 1 1 1 1 1 1 1 1 1 1 1 1 1 1 1 1 1 1 1 1 1 1 1 1 1 1 1 1 1 1 1 1 1 1 1 1 1 1 1 1 1 1 1 1 1 1 1 1 1 1 1 1 1 1 1 1 1 1 1 1 1 1 1 1 1 1 1 1 1 1 1 1 1 1 1 1 1 1 1 1 1 1 1 1 1 1 1 1 1 1 1 1 1 1 1 1 1 1 1 1 1 1 1 1 1 1 1 1 1 1 1 1 1 1 1 1 1 1 1 1 1 1 1 1 1 1 1 1 1 1 1 1 1 1 1 1 1 1 1 1 1 1 1 1 1 1 1 1 1 1 1 1 1 1 1 1 1 
+    1 1 1 1 1 1 1 1 1 1 1 1 1 1 1 1 1 1 1 1 1 1 1 1 1 1 1 1 1 1 1 1 1 1 1 1 1 1 1 1 1 1 1 1 1 1 1 1 1 1 1 1 1 1 1 1 1 1 1 1 1 1 1 1 1 1 1 1 1 1 1 1 1 1 1 1 1 1 1 1 1 1 1 1 1 1 1 1 1 1 1 1 1 1 1 1 1 1 1 1 1 1 1 1 1 1 1 1 1 1 1 1 1 1 1 1 1 1 1 1 1 1 1 1 1 1 1 1 1 1 1 1 1 1 1 1 1 1 1 1 1 1 1 1 1 1 1 1 1 1 1 1 1 1 1 1 1 1 1 1 
+    1 1 1 1 1 1 1 1 1 1 1 1 1 1 1 1 1 1 1 1 1 1 1 1 1 1 1 1 1 1 1 1 1 1 1 1 1 1 1 1 1 1 1 1 1 1 1 1 1 1 1 1 1 1 1 1 1 1 1 1 1 1 1 1 1 1 1 1 1 1 1 1 1 1 1 1 1 1 1 1 1 1 1 1 1 1 1 1 1 1 1 1 1 1 1 1 1 1 1 1 1 1 1 1 1 1 1 1 1 1 1 1 1 1 1 1 1 1 1 1 1 1 1 1 1 1 1 1 1 1 1 1 1 1 1 1 1 1 1 1 1 1 1 1 1 1 1 1 1 1 1 1 1 1 1 1 1 1 1 1 
+    1 1 1 1 1 1 1 1 1 1 1 1 1 1 1 1 1 1 1 1 1 1 1 1 1 1 1 1 1 1 1 1 1 1 1 1 1 1 1 1 1 1 1 1 1 1 1 1 1 1 1 1 1 1 1 1 1 1 1 1 1 1 1 1 1 1 1 1 1 1 1 1 1 1 1 1 1 1 1 1 1 1 1 1 1 1 1 1 1 1 1 1 1 1 1 1 1 1 1 1 1 1 1 1 1 1 1 1 1 1 1 1 1 1 1 1 1 1 1 1 1 1 1 1 1 1 1 1 1 1 1 1 1 1 1 1 1 1 1 1 1 1 1 1 1 1 1 1 1 1 1 1 1 1 1 1 1 1 1 1 
+    1 1 1 1 1 1 1 1 1 1 1 1 1 1 1 1 1 1 1 1 1 1 1 1 1 1 1 1 1 1 1 1 1 1 1 1 1 1 1 1 1 1 1 1 1 1 1 1 1 1 1 1 1 1 1 1 1 1 1 1 1 1 1 1 1 1 1 1 1 1 1 1 1 1 1 1 1 1 1 1 1 1 1 1 1 1 1 1 1 1 1 1 1 1 1 1 1 1 1 1 1 1 1 1 1 1 1 1 1 1 1 1 1 1 1 1 1 1 1 1 1 1 1 1 1 1 1 1 1 1 1 1 1 1 1 1 1 1 1 1 1 1 1 1 1 1 1 1 1 1 1 1 1 1 1 1 1 1 1 1 
+    1 1 1 1 1 1 1 1 1 1 1 1 1 1 1 1 1 1 1 1 1 1 1 1 1 1 1 1 1 1 1 1 1 1 1 1 1 1 1 1 1 1 1 1 1 1 1 1 1 1 1 1 1 1 1 1 1 1 1 1 1 1 1 1 1 1 1 1 1 1 1 1 1 1 1 1 1 1 1 1 1 1 1 1 1 1 1 1 1 1 1 1 1 1 1 1 1 1 1 1 1 1 1 1 1 1 1 1 1 1 1 1 1 1 1 1 1 1 1 1 1 1 1 1 1 1 1 1 1 1 1 1 1 1 1 1 1 1 1 1 1 1 1 1 1 1 1 1 1 1 1 1 1 1 1 1 1 1 1 1 
+    1 1 1 1 1 1 1 1 1 1 1 1 1 1 1 1 1 1 1 1 1 1 1 1 1 1 1 1 1 1 1 1 1 1 1 1 1 1 1 1 1 1 1 1 1 1 1 1 1 1 1 1 1 1 1 1 1 1 1 1 1 1 1 1 1 1 1 1 1 1 1 1 1 1 1 1 1 1 1 1 1 1 1 1 1 1 1 1 1 1 1 1 1 1 1 1 1 1 1 1 1 1 1 1 1 1 1 1 1 1 1 1 1 1 1 1 1 1 1 1 1 1 1 1 1 1 1 1 1 1 1 1 1 1 1 1 1 1 1 1 1 1 1 1 1 1 1 1 1 1 1 1 1 1 1 1 1 1 1 1 
+    1 1 1 1 1 1 1 1 1 1 1 1 1 1 1 1 1 1 1 1 1 1 1 1 1 1 1 1 1 1 1 1 1 1 1 1 1 1 1 1 1 1 1 1 1 1 1 1 1 1 1 1 1 1 1 1 1 1 1 1 1 1 1 1 1 1 1 1 1 1 1 1 1 1 1 1 1 1 1 1 1 1 1 1 1 1 1 1 1 1 1 1 1 1 1 1 1 1 1 1 1 1 1 1 1 1 1 1 1 1 1 1 1 1 1 1 1 1 1 1 1 1 1 1 1 1 1 1 1 1 1 1 1 1 1 1 1 1 1 1 1 1 1 1 1 1 1 1 1 1 1 1 1 1 1 1 1 1 1 1 
+    1 1 1 1 1 1 1 1 1 1 1 1 1 1 1 1 1 1 1 1 1 1 1 1 1 1 1 1 1 1 1 1 1 1 1 1 1 1 1 1 1 1 1 1 1 1 1 1 1 1 1 1 1 1 1 1 1 1 1 1 1 1 1 1 1 1 1 1 1 1 1 1 1 1 1 1 1 1 1 1 1 1 1 1 1 1 1 1 1 1 1 1 1 1 1 1 1 1 1 1 1 1 1 1 1 1 1 1 1 1 1 1 1 1 1 1 1 1 1 1 1 1 1 1 1 1 1 1 1 1 1 1 1 1 1 1 1 1 1 1 1 1 1 1 1 1 1 1 1 1 1 1 1 1 1 1 1 1 1 1 
+    1 1 1 1 1 1 1 1 1 1 1 1 1 1 1 1 1 1 1 1 1 1 1 1 1 1 1 1 1 1 1 1 1 1 1 1 1 1 1 1 1 1 1 1 1 1 1 1 1 1 1 1 1 1 1 1 1 1 1 1 1 1 1 1 1 1 1 1 1 1 1 1 1 1 1 1 1 1 1 1 1 1 1 1 1 1 1 1 1 1 1 1 1 1 1 1 1 1 1 1 1 1 1 1 1 1 1 1 1 1 1 1 1 1 1 1 1 1 1 1 1 1 1 1 1 1 1 1 1 1 1 1 1 1 1 1 1 1 1 1 1 1 1 1 1 1 1 1 1 1 1 1 1 1 1 1 1 1 1 1 
+    1 1 1 1 1 1 1 1 1 1 1 1 1 1 1 1 1 1 1 1 1 1 1 1 1 1 1 1 1 1 1 1 1 1 1 1 1 1 1 1 1 1 1 1 1 1 1 1 1 1 1 1 1 1 1 1 1 1 1 1 1 1 1 1 1 1 1 1 1 1 1 1 1 1 1 1 1 1 1 1 1 1 1 1 1 1 1 1 1 1 1 1 1 1 1 1 1 1 1 1 1 1 1 1 1 1 1 1 1 1 1 1 1 1 1 1 1 1 1 1 1 1 1 1 1 1 1 1 1 1 1 1 1 1 1 1 1 1 1 1 1 1 1 1 1 1 1 1 1 1 1 1 1 1 1 1 1 1 1 1 
+    1 1 1 1 1 1 1 1 1 1 1 1 1 1 1 1 1 1 1 1 1 1 1 1 1 1 1 1 1 1 1 1 1 1 1 1 1 1 1 1 1 1 1 1 1 1 1 1 1 1 1 1 1 1 1 1 1 1 1 1 1 1 1 1 1 1 1 1 1 1 1 1 1 1 1 1 1 1 1 1 1 1 1 1 1 1 1 1 1 1 1 1 1 1 1 1 1 1 1 1 1 1 1 1 1 1 1 1 1 1 1 1 1 1 1 1 1 1 1 1 1 1 1 1 1 1 1 1 1 1 1 1 1 1 1 1 1 1 1 1 1 1 1 1 1 1 1 1 1 1 1 1 1 1 1 1 1 1 1 1 
+    1 1 1 1 1 1 1 1 1 1 1 1 1 1 1 1 1 1 1 1 1 1 1 1 1 1 1 1 1 1 1 1 1 1 1 1 1 1 1 1 1 1 1 1 1 1 1 1 1 1 1 1 1 1 1 1 1 1 1 1 1 1 1 1 1 1 1 1 1 1 1 1 1 1 1 1 1 1 1 1 1 1 1 1 1 1 1 1 1 1 1 1 1 1 1 1 1 1 1 1 1 1 1 1 1 1 1 1 1 1 1 1 1 1 1 1 1 1 1 1 1 1 1 1 1 1 1 1 1 1 1 1 1 1 1 1 1 1 1 1 1 1 1 1 1 1 1 1 1 1 1 1 1 1 1 1 1 1 1 1 
+    1 1 1 1 1 1 1 1 1 1 1 1 1 1 1 1 1 1 1 1 1 1 1 1 1 1 1 1 1 1 1 1 1 1 1 1 1 1 1 1 1 1 1 1 1 1 1 1 1 1 1 1 1 1 1 1 1 1 1 1 1 1 1 1 1 1 1 1 1 1 1 1 1 1 1 1 1 1 1 1 1 1 1 1 1 1 1 1 1 1 1 1 1 1 1 1 1 1 1 1 1 1 1 1 1 1 1 1 1 1 1 1 1 1 1 1 1 1 1 1 1 1 1 1 1 1 1 1 1 1 1 1 1 1 1 1 1 1 1 1 1 1 1 1 1 1 1 1 1 1 1 1 1 1 1 1 1 1 1 1 
+    1 1 1 1 1 1 1 1 1 1 1 1 1 1 1 1 1 1 1 1 1 1 1 1 1 1 1 1 1 1 1 1 1 1 1 1 1 1 1 1 1 1 1 1 1 1 1 1 1 1 1 1 1 1 1 1 1 1 1 1 1 1 1 1 1 1 1 1 1 1 1 1 1 1 1 1 1 1 1 1 1 1 1 1 1 1 1 1 1 1 1 1 1 1 1 1 1 1 1 1 1 1 1 1 1 1 1 1 1 1 1 1 1 1 1 1 1 1 1 1 1 1 1 1 1 1 1 1 1 1 1 1 1 1 1 1 1 1 1 1 1 1 1 1 1 1 1 1 1 1 1 1 1 1 1 1 1 1 1 1 
+    1 1 1 1 1 1 1 1 1 1 1 1 1 1 1 1 1 1 1 1 1 1 1 1 1 1 1 1 1 1 1 1 1 1 1 1 1 1 1 1 1 1 1 1 1 1 1 1 1 1 1 1 1 1 1 1 1 1 1 1 1 1 1 1 1 1 1 1 1 1 1 1 1 1 1 1 1 1 1 1 1 1 1 1 1 1 1 1 1 1 1 1 1 1 1 1 1 1 1 1 1 1 1 1 1 1 1 1 1 1 1 1 1 1 1 1 1 1 1 1 1 1 1 1 1 1 1 1 1 1 1 1 1 1 1 1 1 1 1 1 1 1 1 1 1 1 1 1 1 1 1 1 1 1 1 1 1 1 1 1 
+    1 1 1 1 1 1 1 1 1 1 1 1 1 1 1 1 1 1 1 1 1 1 1 1 1 1 1 1 1 1 1 1 1 1 1 1 1 1 1 1 1 1 1 1 1 1 1 1 1 1 1 1 1 1 1 1 1 1 1 1 1 1 1 1 1 1 1 1 1 1 1 1 1 1 1 1 1 1 1 1 1 1 1 1 1 1 1 1 1 1 1 1 1 1 1 1 1 1 1 1 1 1 1 1 1 1 1 1 1 1 1 1 1 1 1 1 1 1 1 1 1 1 1 1 1 1 1 1 1 1 1 1 1 1 1 1 1 1 1 1 1 1 1 1 1 1 1 1 1 1 1 1 1 1 1 1 1 1 1 1 
+    1 1 1 1 1 1 1 1 1 1 1 1 1 1 1 1 1 1 1 1 1 1 1 1 1 1 1 1 1 1 1 1 1 1 1 1 1 1 1 1 1 1 1 1 1 1 1 1 1 1 1 1 1 1 1 1 1 1 1 1 1 1 1 1 1 1 1 1 1 1 1 1 1 1 1 1 1 1 1 1 1 1 1 1 1 1 1 1 1 1 1 1 1 1 1 1 1 1 1 1 1 1 1 1 1 1 1 1 1 1 1 1 1 1 1 1 1 1 1 1 1 1 1 1 1 1 1 1 1 1 1 1 1 1 1 1 1 1 1 1 1 1 1 1 1 1 1 1 1 1 1 1 1 1 1 1 1 1 1 1 
+    1 1 1 1 1 1 1 1 1 1 1 1 1 1 1 1 1 1 1 1 1 1 1 1 1 1 1 1 1 1 1 1 1 1 1 1 1 1 1 1 1 1 1 1 1 1 1 1 1 1 1 1 1 1 1 1 1 1 1 1 1 1 1 1 1 1 1 1 1 1 1 1 1 1 1 1 1 1 1 1 1 1 1 1 1 1 1 1 1 1 1 1 1 1 1 1 1 1 1 1 1 1 1 1 1 1 1 1 1 1 1 1 1 1 1 1 1 1 1 1 1 1 1 1 1 1 1 1 1 1 1 1 1 1 1 1 1 1 1 1 1 1 1 1 1 1 1 1 1 1 1 1 1 1 1 1 1 1 1 1 
+    1 1 1 1 1 1 1 1 1 1 1 1 1 1 1 1 1 1 1 1 1 1 1 1 1 1 1 1 1 1 1 1 1 1 1 1 1 1 1 1 1 1 1 1 1 1 1 1 1 1 1 1 1 1 1 1 1 1 1 1 1 1 1 1 1 1 1 1 1 1 1 1 1 1 1 1 1 1 1 1 1 1 1 1 1 1 1 1 1 1 1 1 1 1 1 1 1 1 1 1 1 1 1 1 1 1 1 1 1 1 1 1 1 1 1 1 1 1 1 1 1 1 1 1 1 1 1 1 1 1 1 1 1 1 1 1 1 1 1 1 1 1 1 1 1 1 1 1 1 1 1 1 1 1 1 1 1 1 1 1 
+    1 1 1 1 1 1 1 1 1 1 1 1 1 1 1 1 1 1 1 1 1 1 1 1 1 1 1 1 1 1 1 1 1 1 1 1 1 1 1 1 1 1 1 1 1 1 1 1 1 1 1 1 1 1 1 1 1 1 1 1 1 1 1 1 1 1 1 1 1 1 1 1 1 1 1 1 1 1 1 1 1 1 1 1 1 1 1 1 1 1 1 1 1 1 1 1 1 1 1 1 1 1 1 1 1 1 1 1 1 1 1 1 1 1 1 1 1 1 1 1 1 1 1 1 1 1 1 1 1 1 1 1 1 1 1 1 1 1 1 1 1 1 1 1 1 1 1 1 1 1 1 1 1 1 1 1 1 1 1 1 
+    1 1 1 1 1 1 1 1 1 1 1 1 1 1 1 1 1 1 1 1 1 1 1 1 1 1 1 1 1 1 1 1 1 1 1 1 1 1 1 1 1 1 1 1 1 1 1 1 1 1 1 1 1 1 1 1 1 1 1 1 1 1 1 1 1 1 1 1 1 1 1 1 1 1 1 1 1 1 1 1 1 1 1 1 1 1 1 1 1 1 1 1 1 1 1 1 1 1 1 1 1 1 1 1 1 1 1 1 1 1 1 1 1 1 1 1 1 1 1 1 1 1 1 1 1 1 1 1 1 1 1 1 1 1 1 1 1 1 1 1 1 1 1 1 1 1 1 1 1 1 1 1 1 1 1 1 1 1 1 1 
+    1 1 1 1 1 1 1 1 1 1 1 1 1 1 1 1 1 1 1 1 1 1 1 1 1 1 1 1 1 1 1 1 1 1 1 1 1 1 1 1 1 1 1 1 1 1 1 1 1 1 1 1 1 1 1 1 1 1 1 1 1 1 1 1 1 1 1 1 1 1 1 1 1 1 1 1 1 1 1 1 1 1 1 1 1 1 1 1 1 1 1 1 1 1 1 1 1 1 1 1 1 1 1 1 1 1 1 1 1 1 1 1 1 1 1 1 1 1 1 1 1 1 1 1 1 1 1 1 1 1 1 1 1 1 1 1 1 1 1 1 1 1 1 1 1 1 1 1 1 1 1 1 1 1 1 1 1 1 1 1 
+    1 1 1 1 1 1 1 1 1 1 1 1 1 1 1 1 1 1 1 1 1 1 1 1 1 1 1 1 1 1 1 1 1 1 1 1 1 1 1 1 1 1 1 1 1 1 1 1 1 1 1 1 1 1 1 1 1 1 1 1 1 1 1 1 1 1 1 1 1 1 1 1 1 1 1 1 1 1 1 1 1 1 1 1 1 1 1 1 1 1 1 1 1 1 1 1 1 1 1 1 1 1 1 1 1 1 1 1 1 1 1 1 1 1 1 1 1 1 1 1 1 1 1 1 1 1 1 1 1 1 1 1 1 1 1 1 1 1 1 1 1 1 1 1 1 1 1 1 1 1 1 1 1 1 1 1 1 1 1 1 
+    1 1 1 1 1 1 1 1 1 1 1 1 1 1 1 1 1 1 1 1 1 1 1 1 1 1 1 1 1 1 1 1 1 1 1 1 1 1 1 1 1 1 1 1 1 1 1 1 1 1 1 1 1 1 1 1 1 1 1 1 1 1 1 1 1 1 1 1 1 1 1 1 1 1 1 1 1 1 1 1 1 1 1 1 1 1 1 1 1 1 1 1 1 1 1 1 1 1 1 1 1 1 1 1 1 1 1 1 1 1 1 1 1 1 1 1 1 1 1 1 1 1 1 1 1 1 1 1 1 1 1 1 1 1 1 1 1 1 1 1 1 1 1 1 1 1 1 1 1 1 1 1 1 1 1 1 1 1 1 1 
+    1 1 1 1 1 1 1 1 1 1 1 1 1 1 1 1 1 1 1 1 1 1 1 1 1 1 1 1 1 1 1 1 1 1 1 1 1 1 1 1 1 1 1 1 1 1 1 1 1 1 1 1 1 1 1 1 1 1 1 1 1 1 1 1 1 1 1 1 1 1 1 1 1 1 1 1 1 1 1 1 1 1 1 1 1 1 1 1 1 1 1 1 1 1 1 1 1 1 1 1 1 1 1 1 1 1 1 1 1 1 1 1 1 1 1 1 1 1 1 1 1 1 1 1 1 1 1 1 1 1 1 1 1 1 1 1 1 1 1 1 1 1 1 1 1 1 1 1 1 1 1 1 1 1 1 1 1 1 1 1 
+    1 1 1 1 1 1 1 1 1 1 1 1 1 1 1 1 1 1 1 1 1 1 1 1 1 1 1 1 1 1 1 1 1 1 1 1 1 1 1 1 1 1 1 1 1 1 1 1 1 1 1 1 1 1 1 1 1 1 1 1 1 1 1 1 1 1 1 1 1 1 1 1 1 1 1 1 1 1 1 1 1 1 1 1 1 1 1 1 1 1 1 1 1 1 1 1 1 1 1 1 1 1 1 1 1 1 1 1 1 1 1 1 1 1 1 1 1 1 1 1 1 1 1 1 1 1 1 1 1 1 1 1 1 1 1 1 1 1 1 1 1 1 1 1 1 1 1 1 1 1 1 1 1 1 1 1 1 1 1 1 
+    1 1 1 1 1 1 1 1 1 1 1 1 1 1 1 1 1 1 1 1 1 1 1 1 1 1 1 1 1 1 1 1 1 1 1 1 1 1 1 1 1 1 1 1 1 1 1 1 1 1 1 1 1 1 1 1 1 1 1 1 1 1 1 1 1 1 1 1 1 1 1 1 1 1 1 1 1 1 1 1 1 1 1 1 1 1 1 1 1 1 1 1 1 1 1 1 1 1 1 1 1 1 1 1 1 1 1 1 1 1 1 1 1 1 1 1 1 1 1 1 1 1 1 1 1 1 1 1 1 1 1 1 1 1 1 1 1 1 1 1 1 1 1 1 1 1 1 1 1 1 1 1 1 1 1 1 1 1 1 1 
+    1 1 1 1 1 1 1 1 1 1 1 1 1 1 1 1 1 1 1 1 1 1 1 1 1 1 1 1 1 1 1 1 1 1 1 1 1 1 1 1 1 1 1 1 1 1 1 1 1 1 1 1 1 1 1 1 1 1 1 1 1 1 1 1 1 1 1 1 1 1 1 1 1 1 1 1 1 1 1 1 1 1 1 1 1 1 1 1 1 1 1 1 1 1 1 1 1 1 1 1 1 1 1 1 1 1 1 1 1 1 1 1 1 1 1 1 1 1 1 1 1 1 1 1 1 1 1 1 1 1 1 1 1 1 1 1 1 1 1 1 1 1 1 1 1 1 1 1 1 1 1 1 1 1 1 1 1 1 1 1 
+    1 1 1 1 1 1 1 1 1 1 1 1 1 1 1 1 1 1 1 1 1 1 1 1 1 1 1 1 1 1 1 1 1 1 1 1 1 1 1 1 1 1 1 1 1 1 1 1 1 1 1 1 1 1 1 1 1 1 1 1 1 1 1 1 1 1 1 1 1 1 1 1 1 1 1 1 1 1 1 1 1 1 1 1 1 1 1 1 1 1 1 1 1 1 1 1 1 1 1 1 1 1 1 1 1 1 1 1 1 1 1 1 1 1 1 1 1 1 1 1 1 1 1 1 1 1 1 1 1 1 1 1 1 1 1 1 1 1 1 1 1 1 1 1 1 1 1 1 1 1 1 1 1 1 1 1 1 1 1 1 
+    1 1 1 1 1 1 1 1 1 1 1 1 1 1 1 1 1 1 1 1 1 1 1 1 1 1 1 1 1 1 1 1 1 1 1 1 1 1 1 1 1 1 1 1 1 1 1 1 1 1 1 1 1 1 1 1 1 1 1 1 1 1 1 1 1 1 1 1 1 1 1 1 1 1 1 1 1 1 1 1 1 1 1 1 1 1 1 1 1 1 1 1 1 1 1 1 1 1 1 1 1 1 1 1 1 1 1 1 1 1 1 1 1 1 1 1 1 1 1 1 1 1 1 1 1 1 1 1 1 1 1 1 1 1 1 1 1 1 1 1 1 1 1 1 1 1 1 1 1 1 1 1 1 1 1 1 1 1 1 1 
+    1 1 1 1 1 1 1 1 1 1 1 1 1 1 1 1 1 1 1 1 1 1 1 1 1 1 1 1 1 1 1 1 1 1 1 1 1 1 1 1 1 1 1 1 1 1 1 1 1 1 1 1 1 1 1 1 1 1 1 1 1 1 1 1 1 1 1 1 1 1 1 1 1 1 1 1 1 1 1 1 1 1 1 1 1 1 1 1 1 1 1 1 1 1 1 1 1 1 1 1 1 1 1 1 1 1 1 1 1 1 1 1 1 1 1 1 1 1 1 1 1 1 1 1 1 1 1 1 1 1 1 1 1 1 1 1 1 1 1 1 1 1 1 1 1 1 1 1 1 1 1 1 1 1 1 1 1 1 1 1 
+    1 1 1 1 1 1 1 1 1 1 1 1 1 1 1 1 1 1 1 1 1 1 1 1 1 1 1 1 1 1 1 1 1 1 1 1 1 1 1 1 1 1 1 1 1 1 1 1 1 1 1 1 1 1 1 1 1 1 1 1 1 1 1 1 1 1 1 1 1 1 1 1 1 1 1 1 1 1 1 1 1 1 1 1 1 1 1 1 1 1 1 1 1 1 1 1 1 1 1 1 1 1 1 1 1 1 1 1 1 1 1 1 1 1 1 1 1 1 1 1 1 1 1 1 1 1 1 1 1 1 1 1 1 1 1 1 1 1 1 1 1 1 1 1 1 1 1 1 1 1 1 1 1 1 1 1 1 1 1 1 
+    1 1 1 1 1 1 1 1 1 1 1 1 1 1 1 1 1 1 1 1 1 1 1 1 1 1 1 1 1 1 1 1 1 1 1 1 1 1 1 1 1 1 1 1 1 1 1 1 1 1 1 1 1 1 1 1 1 1 1 1 1 1 1 1 1 1 1 1 1 1 1 1 1 1 1 1 1 1 1 1 1 1 1 1 1 1 1 1 1 1 1 1 1 1 1 1 1 1 1 1 1 1 1 1 1 1 1 1 1 1 1 1 1 1 1 1 1 1 1 1 1 1 1 1 1 1 1 1 1 1 1 1 1 1 1 1 1 1 1 1 1 1 1 1 1 1 1 1 1 1 1 1 1 1 1 1 1 1 1 1 
+    1 1 1 1 1 1 1 1 1 1 1 1 1 1 1 1 1 1 1 1 1 1 1 1 1 1 1 1 1 1 1 1 1 1 1 1 1 1 1 1 1 1 1 1 1 1 1 1 1 1 1 1 1 1 1 1 1 1 1 1 1 1 1 1 1 1 1 1 1 1 1 1 1 1 1 1 1 1 1 1 1 1 1 1 1 1 1 1 1 1 1 1 1 1 1 1 1 1 1 1 1 1 1 1 1 1 1 1 1 1 1 1 1 1 1 1 1 1 1 1 1 1 1 1 1 1 1 1 1 1 1 1 1 1 1 1 1 1 1 1 1 1 1 1 1 1 1 1 1 1 1 1 1 1 1 1 1 1 1 1 
+    1 1 1 1 1 1 1 1 1 1 1 1 1 1 1 1 1 1 1 1 1 1 1 1 1 1 1 1 1 1 1 1 1 1 1 1 1 1 1 1 1 1 1 1 1 1 1 1 1 1 1 1 1 1 1 1 1 1 1 1 1 1 1 1 1 1 1 1 1 1 1 1 1 1 1 1 1 1 1 1 1 1 1 1 1 1 1 1 1 1 1 1 1 1 1 1 1 1 1 1 1 1 1 1 1 1 1 1 1 1 1 1 1 1 1 1 1 1 1 1 1 1 1 1 1 1 1 1 1 1 1 1 1 1 1 1 1 1 1 1 1 1 1 1 1 1 1 1 1 1 1 1 1 1 1 1 1 1 1 1 
+    1 1 1 1 1 1 1 1 1 1 1 1 1 1 1 1 1 1 1 1 1 1 1 1 1 1 1 1 1 1 1 1 1 1 1 1 1 1 1 1 1 1 1 1 1 1 1 1 1 1 1 1 1 1 1 1 1 1 1 1 1 1 1 1 1 1 1 1 1 1 1 1 1 1 1 1 1 1 1 1 1 1 1 1 1 1 1 1 1 1 1 1 1 1 1 1 1 1 1 1 1 1 1 1 1 1 1 1 1 1 1 1 1 1 1 1 1 1 1 1 1 1 1 1 1 1 1 1 1 1 1 1 1 1 1 1 1 1 1 1 1 1 1 1 1 1 1 1 1 1 1 1 1 1 1 1 1 1 1 1 
+    1 1 1 1 1 1 1 1 1 1 1 1 1 1 1 1 1 1 1 1 1 1 1 1 1 1 1 1 1 1 1 1 1 1 1 1 1 1 1 1 1 1 1 1 1 1 1 1 1 1 1 1 1 1 1 1 1 1 1 1 1 1 1 1 1 1 1 1 1 1 1 1 1 1 1 1 1 1 1 1 1 1 1 1 1 1 1 1 1 1 1 1 1 1 1 1 1 1 1 1 1 1 1 1 1 1 1 1 1 1 1 1 1 1 1 1 1 1 1 1 1 1 1 1 1 1 1 1 1 1 1 1 1 1 1 1 1 1 1 1 1 1 1 1 1 1 1 1 1 1 1 1 1 1 1 1 1 1 1 1 
+    1 1 1 1 1 1 1 1 1 1 1 1 1 1 1 1 1 1 1 1 1 1 1 1 1 1 1 1 1 1 1 1 1 1 1 1 1 1 1 1 1 1 1 1 1 1 1 1 1 1 1 1 1 1 1 1 1 1 1 1 1 1 1 1 1 1 1 1 1 1 1 1 1 1 1 1 1 1 1 1 1 1 1 1 1 1 1 1 1 1 1 1 1 1 1 1 1 1 1 1 1 1 1 1 1 1 1 1 1 1 1 1 1 1 1 1 1 1 1 1 1 1 1 1 1 1 1 1 1 1 1 1 1 1 1 1 1 1 1 1 1 1 1 1 1 1 1 1 1 1 1 1 1 1 1 1 1 1 1 1 
+    1 1 1 1 1 1 1 1 1 1 1 1 1 1 1 1 1 1 1 1 1 1 1 1 1 1 1 1 1 1 1 1 1 1 1 1 1 1 1 1 1 1 1 1 1 1 1 1 1 1 1 1 1 1 1 1 1 1 1 1 1 1 1 1 1 1 1 1 1 1 1 1 1 1 1 1 1 1 1 1 1 1 1 1 1 1 1 1 1 1 1 1 1 1 1 1 1 1 1 1 1 1 1 1 1 1 1 1 1 1 1 1 1 1 1 1 1 1 1 1 1 1 1 1 1 1 1 1 1 1 1 1 1 1 1 1 1 1 1 1 1 1 1 1 1 1 1 1 1 1 1 1 1 1 1 1 1 1 1 1 
+    1 1 1 1 1 1 1 1 1 1 1 1 1 1 1 1 1 1 1 1 1 1 1 1 1 1 1 1 1 1 1 1 1 1 1 1 1 1 1 1 1 1 1 1 1 1 1 1 1 1 1 1 1 1 1 1 1 1 1 1 1 1 1 1 1 1 1 1 1 1 1 1 1 1 1 1 1 1 1 1 1 1 1 1 1 1 1 1 1 1 1 1 1 1 1 1 1 1 1 1 1 1 1 1 1 1 1 1 1 1 1 1 1 1 1 1 1 1 1 1 1 1 1 1 1 1 1 1 1 1 1 1 1 1 1 1 1 1 1 1 1 1 1 1 1 1 1 1 1 1 1 1 1 1 1 1 1 1 1 1 
+    1 1 1 1 1 1 1 1 1 1 1 1 1 1 1 1 1 1 1 1 1 1 1 1 1 1 1 1 1 1 1 1 1 1 1 1 1 1 1 1 1 1 1 1 1 1 1 1 1 1 1 1 1 1 1 1 1 1 1 1 1 1 1 1 1 1 1 1 1 1 1 1 1 1 1 1 1 1 1 1 1 1 1 1 1 1 1 1 1 1 1 1 1 1 1 1 1 1 1 1 1 1 1 1 1 1 1 1 1 1 1 1 1 1 1 1 1 1 1 1 1 1 1 1 1 1 1 1 1 1 1 1 1 1 1 1 1 1 1 1 1 1 1 1 1 1 1 1 1 1 1 1 1 1 1 1 1 1 1 1 
+    1 1 1 1 1 1 1 1 1 1 1 1 1 1 1 1 1 1 1 1 1 1 1 1 1 1 1 1 1 1 1 1 1 1 1 1 1 1 1 1 1 1 1 1 1 1 1 1 1 1 1 1 1 1 1 1 1 1 1 1 1 1 1 1 1 1 1 1 1 1 1 1 1 1 1 1 1 1 1 1 1 1 1 1 1 1 1 1 1 1 1 1 1 1 1 1 1 1 1 1 1 1 1 1 1 1 1 1 1 1 1 1 1 1 1 1 1 1 1 1 1 1 1 1 1 1 1 1 1 1 1 1 1 1 1 1 1 1 1 1 1 1 1 1 1 1 1 1 1 1 1 1 1 1 1 1 1 1 1 1 
+    1 1 1 1 1 1 1 1 1 1 1 1 1 1 1 1 1 1 1 1 1 1 1 1 1 1 1 1 1 1 1 1 1 1 1 1 1 1 1 1 1 1 1 1 1 1 1 1 1 1 1 1 1 1 1 1 1 1 1 1 1 1 1 1 1 1 1 1 1 1 1 1 1 1 1 1 1 1 1 1 1 1 1 1 1 1 1 1 1 1 1 1 1 1 1 1 1 1 1 1 1 1 1 1 1 1 1 1 1 1 1 1 1 1 1 1 1 1 1 1 1 1 1 1 1 1 1 1 1 1 1 1 1 1 1 1 1 1 1 1 1 1 1 1 1 1 1 1 1 1 1 1 1 1 1 1 1 1 1 1 
+    1 1 1 1 1 1 1 1 1 1 1 1 1 1 1 1 1 1 1 1 1 1 1 1 1 1 1 1 1 1 1 1 1 1 1 1 1 1 1 1 1 1 1 1 1 1 1 1 1 1 1 1 1 1 1 1 1 1 1 1 1 1 1 1 1 1 1 1 1 1 1 1 1 1 1 1 1 1 1 1 1 1 1 1 1 1 1 1 1 1 1 1 1 1 1 1 1 1 1 1 1 1 1 1 1 1 1 1 1 1 1 1 1 1 1 1 1 1 1 1 1 1 1 1 1 1 1 1 1 1 1 1 1 1 1 1 1 1 1 1 1 1 1 1 1 1 1 1 1 1 1 1 1 1 1 1 1 1 1 1 
+    1 1 1 1 1 1 1 1 1 1 1 1 1 1 1 1 1 1 1 1 1 1 1 1 1 1 1 1 1 1 1 1 1 1 1 1 1 1 1 1 1 1 1 1 1 1 1 1 1 1 1 1 1 1 1 1 1 1 1 1 1 1 1 1 1 1 1 1 1 1 1 1 1 1 1 1 1 1 1 1 1 1 1 1 1 1 1 1 1 1 1 1 1 1 1 1 1 1 1 1 1 1 1 1 1 1 1 1 1 1 1 1 1 1 1 1 1 1 1 1 1 1 1 1 1 1 1 1 1 1 1 1 1 1 1 1 1 1 1 1 1 1 1 1 1 1 1 1 1 1 1 1 1 1 1 1 1 1 1 1 
+    1 1 1 1 1 1 1 1 1 1 1 1 1 1 1 1 1 1 1 1 1 1 1 1 1 1 1 1 1 1 1 1 1 1 1 1 1 1 1 1 1 1 1 1 1 1 1 1 1 1 1 1 1 1 1 1 1 1 1 1 1 1 1 1 1 1 1 1 1 1 1 1 1 1 1 1 1 1 1 1 1 1 1 1 1 1 1 1 1 1 1 1 1 1 1 1 1 1 1 1 1 1 1 1 1 1 1 1 1 1 1 1 1 1 1 1 1 1 1 1 1 1 1 1 1 1 1 1 1 1 1 1 1 1 1 1 1 1 1 1 1 1 1 1 1 1 1 1 1 1 1 1 1 1 1 1 1 1 1 1 
+    1 1 1 1 1 1 1 1 1 1 1 1 1 1 1 1 1 1 1 1 1 1 1 1 1 1 1 1 1 1 1 1 1 1 1 1 1 1 1 1 1 1 1 1 1 1 1 1 1 1 1 1 1 1 1 1 1 1 1 1 1 1 1 1 1 1 1 1 1 1 1 1 1 1 1 1 1 1 1 1 1 1 1 1 1 1 1 1 1 1 1 1 1 1 1 1 1 1 1 1 1 1 1 1 1 1 1 1 1 1 1 1 1 1 1 1 1 1 1 1 1 1 1 1 1 1 1 1 1 1 1 1 1 1 1 1 1 1 1 1 1 1 1 1 1 1 1 1 1 1 1 1 1 1 1 1 1 1 1 1 
+    1 1 1 1 1 1 1 1 1 1 1 1 1 1 1 1 1 1 1 1 1 1 1 1 1 1 1 1 1 1 1 1 1 1 1 1 1 1 1 1 1 1 1 1 1 1 1 1 1 1 1 1 1 1 1 1 1 1 1 1 1 1 1 1 1 1 1 1 1 1 1 1 1 1 1 1 1 1 1 1 1 1 1 1 1 1 1 1 1 1 1 1 1 1 1 1 1 1 1 1 1 1 1 1 1 1 1 1 1 1 1 1 1 1 1 1 1 1 1 1 1 1 1 1 1 1 1 1 1 1 1 1 1 1 1 1 1 1 1 1 1 1 1 1 1 1 1 1 1 1 1 1 1 1 1 1 1 1 1 1 
+    `)
